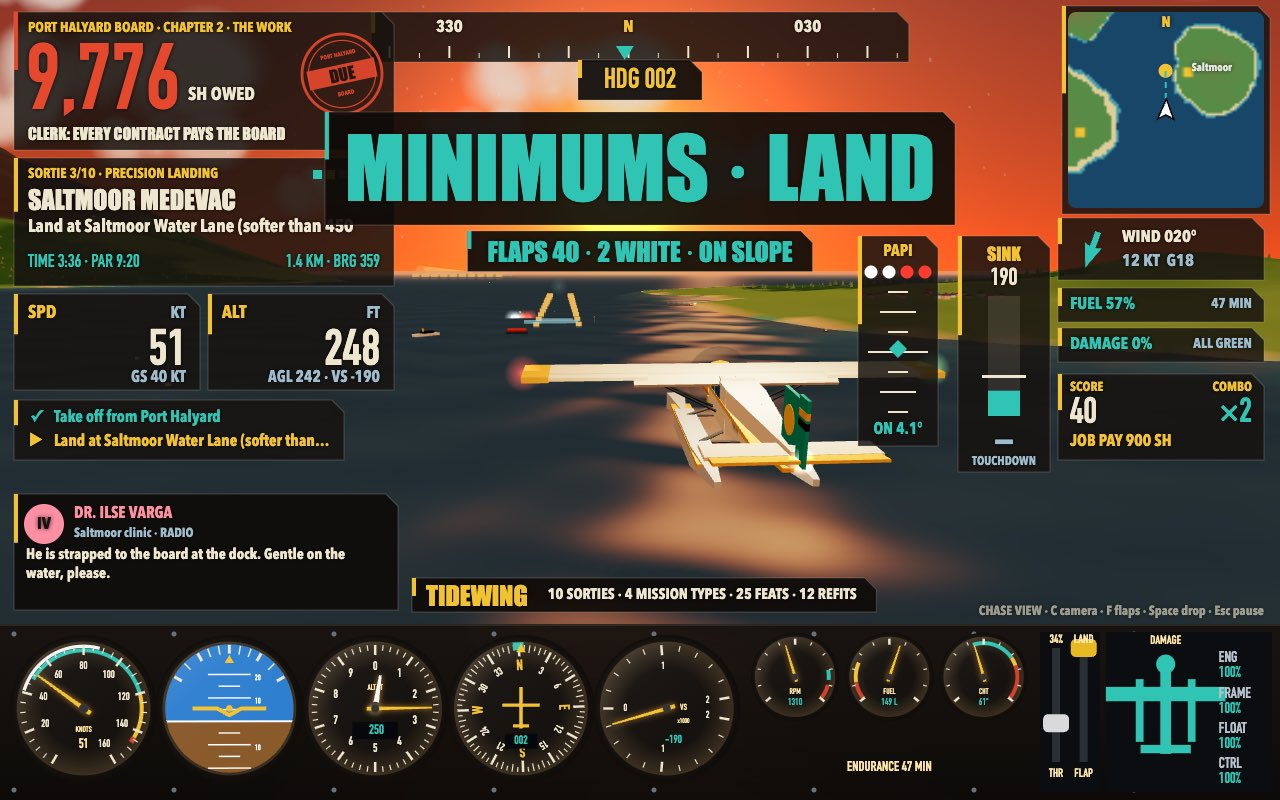
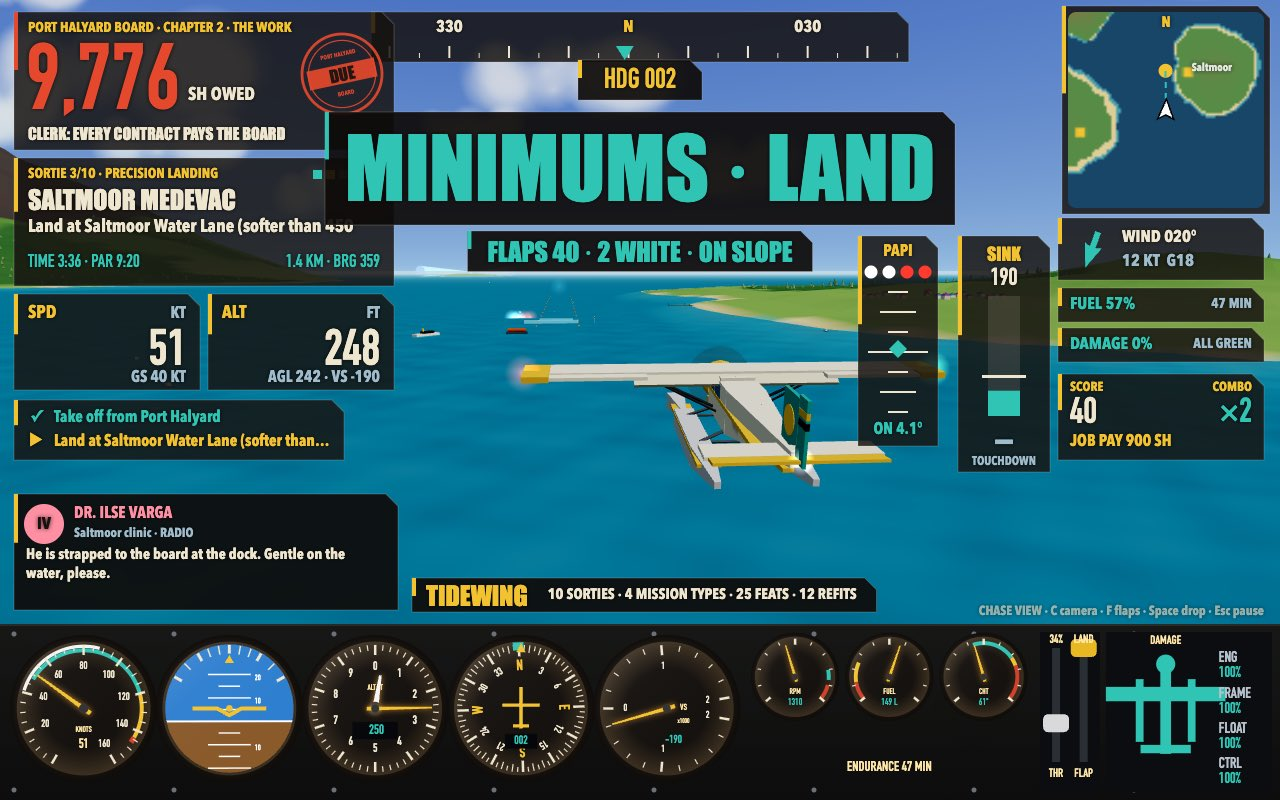
fix(sheet): receipt on ledger-cream paper over the day scene; medevac final in day light
- the debrief receipt is a cream paper document: basalt type, ember only for the amount owed,
  the DUE/PAID stamp kept, the recorder as a dark inset, and the scene left undimmed around it
- the medevac shot freezes the same final in day light so water, lane and Tern read in a cell
- takeShots.mjs: ONLY=3,4 re-renders just the named shots

diff --git a/game/src/ui/screens.css b/game/src/ui/screens.css
@@ -146,3 +146,23 @@ td { padding: 3px 4px; font-weight: 700; border-bottom: 1px solid var(--rule); w
 .reachcols { display: grid; grid-template-columns: 520px 1fr; gap: 16px; min-height: 0; }
 .reachcols > div { overflow: hidden; max-height: 600px; }
 .reach .ledger td { white-space: normal; }
+
+/* the debrief is the Board's receipt: ledger-cream paper, basalt type, ember for what is owed */
+.brief.debrief { background: var(--ledger); color: var(--basalt); width: min(1010px, 90%); gap: 6px; padding-top: 12px; padding-bottom: 12px; box-shadow: inset 6px 0 0 var(--sulphur), 0 18px 40px rgba(0,0,0,0.45); }
+.debrief .kick, .debrief .quiet, .debrief .contract, .debrief .tip { color: rgba(22,18,15,0.78); }
+.debrief .grade, .debrief .grade.g-C, .debrief .grade.g-D, .debrief .grade.g-F, .debrief h1 { color: var(--basalt); }
+.debrief .total .kick b { color: var(--basalt); }
+.debrief .owed span { color: var(--basalt); }
+.debrief td { border-bottom-color: rgba(22,18,15,0.18); }
+.debrief td.pts, .debrief tr.sum td { color: var(--basalt); }
+.debrief .medal { color: rgba(22,18,15,0.7); background: rgba(22,18,15,0.07); }
+.debrief .medal.won { color: var(--basalt); }
+.debrief button.ghost { background: rgba(22,18,15,0.1); color: var(--basalt); }
+.debrief .refit em { color: var(--ember); }
+.debrief .refit i { color: rgba(22,18,15,0.65); }
+.debrief .total { white-space: nowrap; }
+.debrief .owed { font-size: 100px; }
+.debrief .chartbox { background: var(--basalt); }
+.debrief .dhead { gap: 14px; }
+.debrief .chip { background: rgba(22,18,15,0.08); color: var(--basalt); }
+.debrief .chip b { color: var(--basalt); }

diff --git a/game/src/shots/shotMode.js b/game/src/shots/shotMode.js
@@ -4,7 +4,7 @@
 // fly the sorties before it, so those numbers are the bot's real career.
 //   cover   - Cinder Ring Trial at dusk, chase view, about to fly ring 8 with the runway beyond
 //   fire    - Tallow Ridge Fire, chase view, the second fire just knocked out, drop meter
-//   final   - Saltmoor Medevac, chase view, short final with the approach callouts
+//   final   - Saltmoor Medevac, chase view, short final with the approach callouts, in day light
 //   receipt - the stamped receipt after the bot's Harbour Board Survey
 //   cockpit - Tallow Ridge Fire, cockpit view, low run-in on a burning slope, live score and combo
 //   debrief - the debrief after the bot's sortie 4 (Ridge strip), grade, lines and flight chart
@@ -99,6 +99,8 @@ export const SHOTS = {
       const o = currentObjective(m);
       return o && o.kind === 'land' && m.ac.agl * 3.28084 < 260 && m.ac.agl > 30 && distTo(m, o.rw.x, o.rw.z) < 1400;
     });
+    // the same moment in day light, so water, lane and Tern read in a small cell (the sortie flies at dusk)
+    ms.def = { ...ms.def, timeOfDay: 'day' };
     return { ms, career: flyCareer(2).career, view: 'chase', camera: { ...LOW_CHASE, lookDown: -8 } };
   },
   receipt() {

diff --git a/game/src/ui/screens.js b/game/src/ui/screens.js
@@ -274,7 +274,7 @@ export function showDebrief(def, result, fuelBill, h, x) {
     ${cards ? `<div class="kick">REFIT · PICK ONE CARD, CHARGED TO THE NOTE</div><div class="cards">${cards}</div>` : ''}
     <div class="meta"><span class="chip">Time <b>${fmtTime(result.time)}</b></span><span class="chip">Cash pay <b>${result.pay} sh</b></span>
       <span class="chip">Fuel bill <b>${fuelBill} sh</b></span>${debtBar(x.career)}</div>
-    <div class="row"><button class="ghost" id="retry">Fly it again</button><button id="hangar">Back to the board (Enter)</button></div></div>`);
+    <div class="row"><button class="ghost" id="retry">Fly it again</button><button id="hangar">Back to the board (Enter)</button></div></div>`, 'screen');
   drawTraceChart(el.querySelector('canvas.chart'), x.trace);
   el.querySelectorAll('[data-refit]').forEach((b) => {
     b.onclick = () => { h.onRefit?.(b.dataset.refit); el.querySelectorAll('[data-refit]').forEach((c) => { c.disabled = true; }); b.classList.remove('ghost'); };
